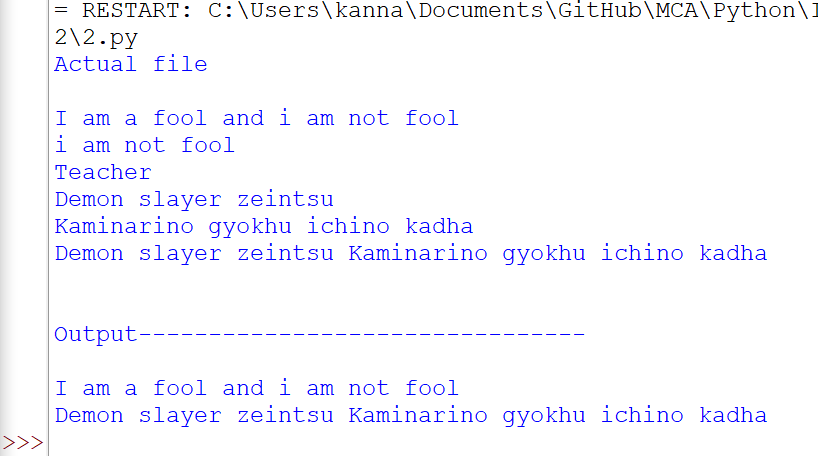
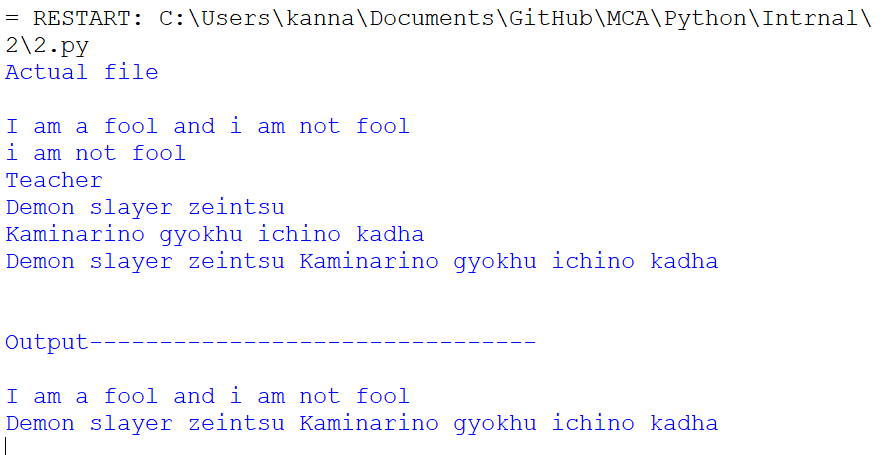
update

Changed region(s): [[0.0, 0.0, 1.0, 1.0], [0.8557, 0.5231, 0.9474, 0.5846], [0.8557, 0.8923, 0.9474, 0.9231]]

diff --git a/Python/Intrnal/2/2.py b/Python/Intrnal/2/2.py
@@ -4,14 +4,20 @@ print("")
 for i in f.readlines():
         print(i.strip())
 f.close()
+f=open("input.txt","r")
+o=open("output.txt","w")
+for c in f.readlines():
+    if(len(c.split(" "))>5 and c[0].isupper()):
+        o.write(c)
+f.close()
+o.close()
 print("")
 print("Output--------------------------------")
 print("")
-f=open("input.txt","r")
-for c in f.readlines():
-    if(len(c.split(" "))>5 and c[0].isupper()):
-        print(c.strip())
-f.close()
+o=open("output.txt","r")
+for c in o.readlines():
+    print(c.strip())
+o.close()
 
 
 
